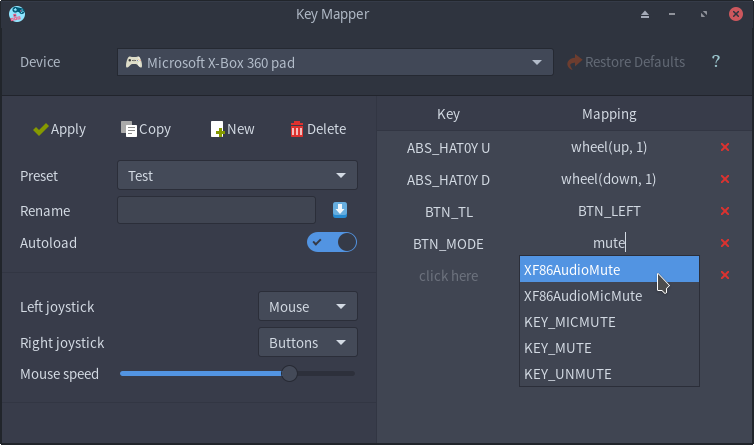
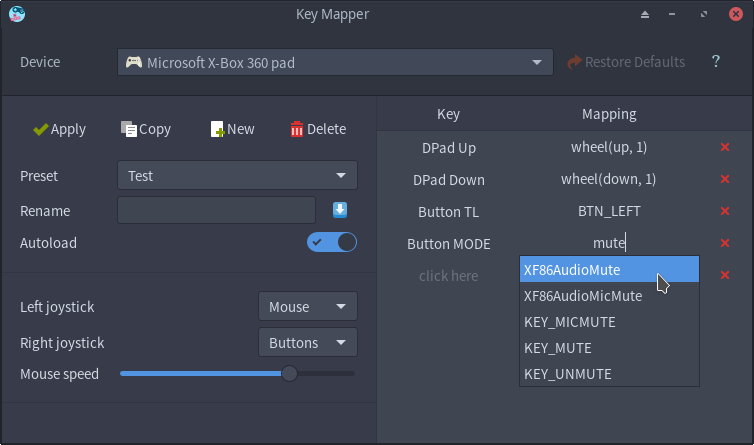
improved gamepad button names

diff --git a/keymapper/gui/row.py b/keymapper/gui/row.py
@@ -91,37 +91,57 @@ def to_string(key):
     if ev_type != evdev.ecodes.EV_KEY:
         direction = {
             # D-Pad
-            (evdev.ecodes.ABS_HAT0X, -1): 'L',
-            (evdev.ecodes.ABS_HAT0X, 1): 'R',
-            (evdev.ecodes.ABS_HAT0Y, -1): 'U',
-            (evdev.ecodes.ABS_HAT0Y, 1): 'D',
-            (evdev.ecodes.ABS_HAT1X, -1): 'L',
-            (evdev.ecodes.ABS_HAT1X, 1): 'R',
-            (evdev.ecodes.ABS_HAT1Y, -1): 'U',
-            (evdev.ecodes.ABS_HAT1Y, 1): 'D',
-            (evdev.ecodes.ABS_HAT2X, -1): 'L',
-            (evdev.ecodes.ABS_HAT2X, 1): 'R',
-            (evdev.ecodes.ABS_HAT2Y, -1): 'U',
-            (evdev.ecodes.ABS_HAT2Y, 1): 'D',
+            (evdev.ecodes.ABS_HAT0X, -1): 'Left',
+            (evdev.ecodes.ABS_HAT0X, 1): 'Right',
+            (evdev.ecodes.ABS_HAT0Y, -1): 'Up',
+            (evdev.ecodes.ABS_HAT0Y, 1): 'Down',
+            (evdev.ecodes.ABS_HAT1X, -1): 'Left',
+            (evdev.ecodes.ABS_HAT1X, 1): 'Right',
+            (evdev.ecodes.ABS_HAT1Y, -1): 'Up',
+            (evdev.ecodes.ABS_HAT1Y, 1): 'Down',
+            (evdev.ecodes.ABS_HAT2X, -1): 'Left',
+            (evdev.ecodes.ABS_HAT2X, 1): 'Right',
+            (evdev.ecodes.ABS_HAT2Y, -1): 'Up',
+            (evdev.ecodes.ABS_HAT2Y, 1): 'Down',
             # joystick
-            (evdev.ecodes.ABS_X, 1): 'R',
-            (evdev.ecodes.ABS_X, -1): 'L',
-            (evdev.ecodes.ABS_Y, 1): 'D',
-            (evdev.ecodes.ABS_Y, -1): 'U',
-            (evdev.ecodes.ABS_RX, 1): 'R',
-            (evdev.ecodes.ABS_RX, -1): 'L',
-            (evdev.ecodes.ABS_RY, 1): 'D',
-            (evdev.ecodes.ABS_RY, -1): 'U',
+            (evdev.ecodes.ABS_X, 1): 'Right',
+            (evdev.ecodes.ABS_X, -1): 'Left',
+            (evdev.ecodes.ABS_Y, 1): 'Down',
+            (evdev.ecodes.ABS_Y, -1): 'Up',
+            (evdev.ecodes.ABS_RX, 1): 'Right',
+            (evdev.ecodes.ABS_RX, -1): 'Left',
+            (evdev.ecodes.ABS_RY, 1): 'Down',
+            (evdev.ecodes.ABS_RY, -1): 'Up',
             # wheel
-            (evdev.ecodes.REL_WHEEL, -1): 'D',
-            (evdev.ecodes.REL_WHEEL, 1): 'U',
-            (evdev.ecodes.REL_HWHEEL, -1): 'L',
-            (evdev.ecodes.REL_HWHEEL, 1): 'R',
+            (evdev.ecodes.REL_WHEEL, -1): 'Down',
+            (evdev.ecodes.REL_WHEEL, 1): 'Up',
+            (evdev.ecodes.REL_HWHEEL, -1): 'Left',
+            (evdev.ecodes.REL_HWHEEL, 1): 'Right',
         }.get((code, value))
         if direction is not None:
             key_name += f' {direction}'
 
-    return key_name.replace('KEY_', '')
+    key_name = key_name.replace('ABS_Z', 'Trigger Left')
+    key_name = key_name.replace('ABS_RZ', 'Trigger Right')
+
+    key_name = key_name.replace('ABS_HAT', 'DPad ')
+    key_name = key_name.replace('0X', '')
+    key_name = key_name.replace('0Y', '')
+    key_name = key_name.replace('1X', '2')
+    key_name = key_name.replace('1Y', '2')
+
+    key_name = key_name.replace('ABS_X', 'Joystick')
+    key_name = key_name.replace('ABS_Y', 'Joystick')
+    key_name = key_name.replace('ABS_RX', 'Joystick 2')
+    key_name = key_name.replace('ABS_RY', 'Joystick 2')
+
+    key_name = key_name.replace('BTN_', 'Button ')
+    key_name = key_name.replace('_', ' ')
+    key_name = key_name.replace('KEY_', '')
+
+    key_name = key_name.replace('  ', ' ')
+
+    return key_name
 
 
 IDLE = 0

diff --git a/tests/testcases/test_integration.py b/tests/testcases/test_integration.py
@@ -389,19 +389,19 @@ class TestIntegration(unittest.TestCase):
     def test_row_keycode_to_string(self):
         # not an integration test, but I have all the row tests here already
         self.assertEqual(to_string(Key(EV_KEY, evdev.ecodes.KEY_A, 1)), 'a')
-        self.assertEqual(to_string(Key(EV_ABS, evdev.ecodes.ABS_HAT0X, -1)), 'ABS_HAT0X L')
-        self.assertEqual(to_string(Key(EV_ABS, evdev.ecodes.ABS_HAT0Y, -1)), 'ABS_HAT0Y U')
-        self.assertEqual(to_string(Key(EV_KEY, evdev.ecodes.BTN_A, 1)), 'BTN_A')
+        self.assertEqual(to_string(Key(EV_ABS, evdev.ecodes.ABS_HAT0X, -1)), 'DPad Left')
+        self.assertEqual(to_string(Key(EV_ABS, evdev.ecodes.ABS_HAT0Y, -1)), 'DPad Up')
+        self.assertEqual(to_string(Key(EV_KEY, evdev.ecodes.BTN_A, 1)), 'Button A')
         self.assertEqual(to_string(Key(EV_KEY, 1234, 1)), 'unknown')
-        self.assertEqual(to_string(Key(EV_ABS, evdev.ecodes.ABS_X, 1)), 'ABS_X R')
-        self.assertEqual(to_string(Key(EV_ABS, evdev.ecodes.ABS_RY, 1)), 'ABS_RY D')
+        self.assertEqual(to_string(Key(EV_ABS, evdev.ecodes.ABS_X, 1)), 'Joystick Right')
+        self.assertEqual(to_string(Key(EV_ABS, evdev.ecodes.ABS_RY, 1)), 'Joystick 2 Down')
 
         # combinations
         self.assertEqual(to_string(Key(
             (EV_KEY, evdev.ecodes.BTN_A, 1),
             (EV_KEY, evdev.ecodes.BTN_B, 1),
             (EV_KEY, evdev.ecodes.BTN_C, 1)
-        )), 'BTN_A + BTN_B + BTN_C')
+        )), 'Button A + Button B + Button C')
 
     def test_row_simple(self):
         rows = self.window.get('key_list').get_children()
